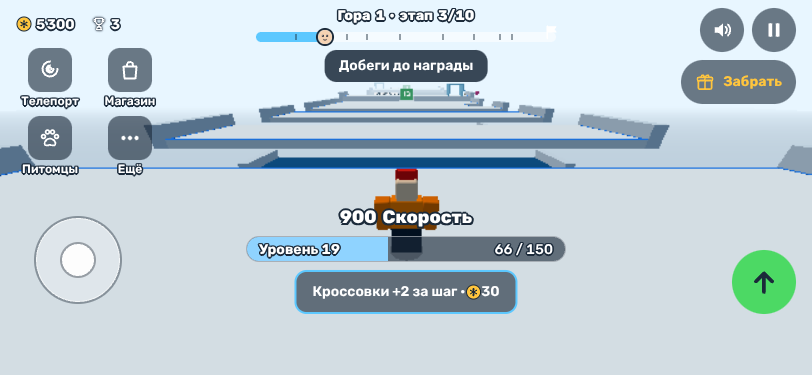
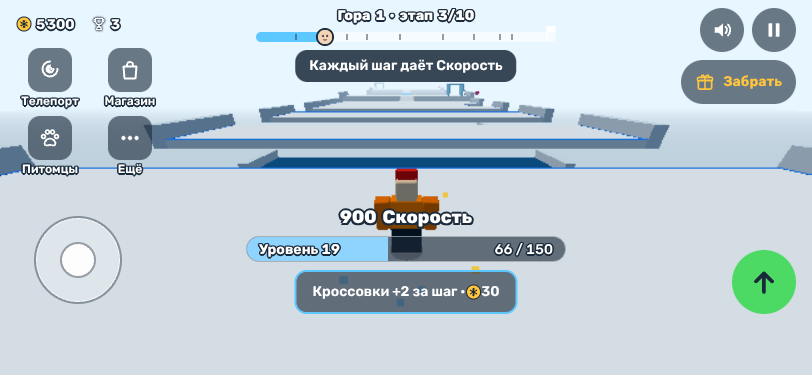
MU: e2e телефона 812×375 (рубеж, финиш, тост, лагерь, окна со свайпом, наборы шагов, поворот), свои рекорды без таблицы лидеров, тост без наплыва на подсказку
Claude-Session: https://claude.ai/code/session_01CrRtJcWGB7Wvn7cQwSvFUz

diff --git a/e2e/touch-mu-screens.spec.ts b/e2e/touch-mu-screens.spec.ts
@@ -1,0 +1,278 @@
+import { test, expect, testState } from './fixtures.ts';
+import { forbiddenSymbols, hudBoxes, MU_VIEW, VISIBLE_H } from './mu-checks.ts';
+import { STAGES, threshold } from './lv-stage-data.ts';
+import type { Page } from '@playwright/test';
+
+// MU-03…MU-09, MU-12, MU-13 (docs/07-mobile-ui.md, docs/mockups): the screens of the phone at 812×375 with touch.
+test.use({ viewport: MU_VIEW });
+
+const SLOT = '[data-role="hint"], [data-role="need"], [data-role="tutor"], [data-role="wave-banner"], [data-role="ads"], [data-role="toast"]';
+
+async function prepare(page: Page, extra = ''): Promise<void> {
+  await page.evaluate((x) => {
+    const t = window.__TEST__!;
+    t.setPlaySec(400);
+    t.setCoins(5300);
+    t.setTrophies(3);
+    t.holdWave(900);
+    if (x) eval(x);
+  }, extra);
+  await page.touchscreen.tap(400, 200);
+  await page.waitForTimeout(300);
+}
+
+/** Message carriers of the slot visible now. */
+async function slotShown(page: Page): Promise<string[]> {
+  return page.evaluate((sel) =>
+    Array.from(document.querySelectorAll(sel))
+      .filter((e) => {
+        const s = getComputedStyle(e);
+        const r = e.getBoundingClientRect();
+        return r.width > 0 && s.display !== 'none' && s.visibility !== 'hidden' && Number(s.opacity) > 0.05;
+      })
+      .map((e) => (e as HTMLElement).dataset['role'] ?? ''),
+  SLOT);
+}
+
+async function tap(page: Page, hud: string): Promise<void> {
+  const b = page.locator(`[data-hud="${hud}"]`).first();
+  await b.dispatchEvent('pointerdown', { pointerType: 'touch', button: 0 });
+  // The click a phone sends after the tap (the HUD drops it, ui/hud.ts dropTapClick).
+  await b.dispatchEvent('click', { detail: 1 });
+}
+
+/** One finger swipes up over (x, y) by `dy` px (CDP touch events, MU-13). */
+async function swipe(page: Page, x: number, y: number, dy: number): Promise<void> {
+  const cdp = await page.context().newCDPSession(page);
+  await cdp.send('Input.dispatchTouchEvent', { type: 'touchStart', touchPoints: [{ x, y }] });
+  for (let i = 1; i <= 8; i++) await cdp.send('Input.dispatchTouchEvent', { type: 'touchMove', touchPoints: [{ x, y: y - (dy * i) / 8 }] });
+  await cdp.send('Input.dispatchTouchEvent', { type: 'touchEnd', touchPoints: [] });
+  await cdp.detach();
+}
+
+/** The open window: its panel box, the cross, the HUD under it, the buttons under 44 px. */
+async function windowFacts(page: Page): Promise<{ id: string; w: number; h: number; bottom: number; cross: number; hudShown: boolean; small: string[] }> {
+  return page.evaluate(() => {
+    const dim = document.querySelector('[data-role="window"].open') as HTMLElement;
+    const p = dim.querySelector('.win-panel')!.getBoundingClientRect();
+    const cross = dim.querySelector('[data-hud="win-close"]') as HTMLElement;
+    const pause = document.querySelector('[data-hud="pause"]')!;
+    const small = Array.from(dim.querySelectorAll('button'))
+      .filter((b) => b.getBoundingClientRect().width > 0 && getComputedStyle(b).display !== 'none')
+      .filter((b) => b.getBoundingClientRect().height < 43.5 || b.getBoundingClientRect().width < 43.5)
+      .map((b) => b.className);
+    return {
+      id: dim.dataset['window'] ?? '',
+      w: p.width,
+      h: p.height,
+      bottom: p.bottom,
+      cross: cross.hidden ? 0 : cross.getBoundingClientRect().width,
+      hudShown: getComputedStyle(pause).visibility !== 'hidden',
+      small,
+    };
+  });
+}
+
+test.describe('MU phone screens', () => {
+  test('MU-03 gate: the dark sign in the world and one plaque «N more levels to the gate» in the slot, nothing else', async ({ page, openGame }) => {
+    await openGame('pace=stages');
+    const st = STAGES[0]!.stages[3]!;
+    const need = st.level;
+    await prepare(page, `window.__TEST__.setStat(${threshold(Math.max(1, need - 3))}); window.__TEST__.teleport(${st.z0 - 20});`);
+    await page.waitForTimeout(500);
+    await expect(page.locator('[data-role="need"]')).toHaveText(/Ещё 3 уровня до рубежа/);
+    await expect.poll(() => slotShown(page)).toEqual(['need']);
+    await expect(page.locator('.hud-goal')).toBeHidden();
+    // Signs farther than they read are not drawn.
+    const far = await page.evaluate(() => {
+      const t = window.__TEST__!;
+      const st = t.state();
+      return st.gatesOpen.map((_, i) => ({ i, box: t.signBox(i) })).filter((x) => Math.abs(x.box.center[2] - (st.hero?.z ?? 0)) > 80 && !x.box.hidden).length;
+    });
+    expect(far).toBe(0);
+    await page.screenshot({ path: 'docs/evidence/MU/l2-gate.png' });
+  });
+
+  test('MU-04 finish: the light plaque before the pad, one «+N» with the coin on it, the counter gets the coins', async ({ page, openGame }) => {
+    await openGame('pace=stages');
+    const st = STAGES[0]!.stages[2]!;
+    await prepare(page, `window.__TEST__.setStat(${threshold(st.level + 2)}); window.__TEST__.teleport(${st.finish[0] - 6}, ${st.pad.x}, ${st.y + 1});`);
+    await expect(page.locator('[data-role="pad-label"].shown')).toBeVisible();
+    await expect(page.locator('[data-role="pad-label"]')).toContainText(/Награда этапа/);
+    await expect(page.locator('[data-role="pad-label"] .hud-pad-sub')).toHaveText(/можно бежать мимо/);
+    await page.screenshot({ path: 'docs/evidence/MU/l3-stage-finish-before.png' });
+    const before = (await testState(page)).coins;
+    let toasts = 0;
+    await page.exposeFunction('__toastSeen', () => void toasts++);
+    await page.evaluate(() => {
+      const el = document.querySelector('[data-role="toast"]')!;
+      new MutationObserver(() => {
+        if (el.classList.contains('shown')) {
+          const w = window as unknown as { __toastSeen: () => void; __toastTexts?: string[] };
+          (w.__toastTexts ??= []).push(el.textContent ?? '');
+          w.__toastSeen();
+        }
+      }).observe(el, { attributes: true, attributeFilter: ['class'] });
+    });
+    await page.evaluate((p) => window.__TEST__!.teleport(p.z, p.x, p.y + 1), st.pad);
+    await page.waitForFunction(() => window.__TEST__!.state().padsTaken > 0, undefined, { timeout: 20_000 });
+    await page.waitForTimeout(300);
+    await expect(page.locator('[data-role="toast"] .hud-toast-main')).toContainText('+');
+    expect(await page.locator('[data-role="toast"] .hud-toast-main svg').count()).toBe(1);
+    await page.screenshot({ path: 'docs/evidence/MU/l3-stage-finish.png' });
+    await page.waitForTimeout(2500);
+    console.log('TOASTS', toasts, await page.evaluate(() => (window as unknown as { __toastTexts?: string[] }).__toastTexts));
+    expect(toasts).toBe(1);
+    expect((await testState(page)).coins).toBeGreaterThan(before);
+    await expect(page.locator('[data-role="coin-gain"]')).toBeHidden();
+  });
+
+  test('MU-05 toast: «LEVEL UP!» in the slot 1.2 s over «Level N», not on the hero, the hint hides and comes back, «+N» one at a time', async ({ page, openGame }) => {
+    await openGame('pace=stages');
+    await prepare(page, `window.__TEST__.setStat(${threshold(4)});`);
+    await page.waitForTimeout(400);
+    // What the slot held when the toast came up and when it went (the machine may be slow: the page records it).
+    await page.evaluate(() => {
+      const el = document.querySelector('[data-role="toast"]')!;
+      const hud = document.querySelector('[data-role="hud"]')!;
+      const w = window as unknown as { __toast: Array<Record<string, unknown>> };
+      w.__toast = [];
+      new MutationObserver(() => {
+        const r = el.getBoundingClientRect();
+        const t = window.__TEST__!;
+        const h = t.state().hero!;
+        w.__toast.push({
+          shown: el.classList.contains('shown'),
+          main: el.querySelector('.hud-toast-main')?.textContent,
+          sub: el.querySelector('.hud-toast-sub')?.textContent,
+          bottom: r.bottom,
+          slot: hud.getAttribute('data-slot'),
+          gains: document.querySelectorAll('.hud-gain.show').length,
+          gainVisible: Array.from(document.querySelectorAll('.hud-gain')).some((g) => getComputedStyle(g).visibility !== 'hidden' && g.classList.contains('show')),
+          heroY: t.project(h.x, h.y + 1.6, h.z).y,
+          at: performance.now(),
+        });
+      }).observe(el, { attributes: true, attributeFilter: ['class'] });
+    });
+    await page.evaluate((n) => window.__TEST__!.setStat(n), threshold(5) + 1);
+    await page.waitForFunction(() => (window as unknown as { __toast: Array<{ shown: boolean }> }).__toast.some((x) => !x.shown), undefined, { timeout: 20_000 });
+    const log = await page.evaluate(() => (window as unknown as { __toast: Array<{ shown: boolean; main: string; sub: string; bottom: number; slot: string; gainVisible: boolean; heroY: number; at: number }> }).__toast);
+    const up = log.find((x) => x.shown)!;
+    const down = log.find((x) => !x.shown)!;
+    expect(up.main).toBe('УРОВЕНЬ ВЫШЕ!');
+    expect(up.sub).toBe('Уровень 5');
+    expect(up.slot).toBe('toast');
+    expect(up.bottom).toBeLessThanOrEqual(86 + 1);
+    expect(up.heroY).toBeGreaterThan(up.bottom);
+    expect(up.gainVisible).toBe(false);
+    expect(down.at - up.at).toBeGreaterThan(900);
+    expect(down.at - up.at).toBeLessThan(2500);
+    // A run: «+N» by the hero is one number, never more than one node up; one message in the slot.
+    await page.evaluate(() => window.__TEST__!.stick(0, -1));
+    let most = 0;
+    for (let i = 0; i < 12; i++) {
+      most = Math.max(most, await page.locator('.hud-gain.show').count());
+      const shown = await slotShown(page);
+      expect(shown.length, shown.join(',')).toBeLessThanOrEqual(1);
+      await page.waitForTimeout(100);
+    }
+    await page.evaluate(() => window.__TEST__!.stick(0, 0));
+    expect(most).toBeLessThanOrEqual(1);
+  });
+
+  test('MU-06 camp: «Camp · mountain 1», no shoes button, no ads or group buttons on the scene, bot names 11 px', async ({ page, openGame }) => {
+    await openGame('pace=stages');
+    await prepare(page, `window.__TEST__.setStat(${threshold(30)});`);
+    await expect(page.locator('.hud-mountain-label')).toHaveText('Лагерь · гора 1');
+    await expect(page.locator('[data-hud="shoes"]')).toBeHidden();
+    await expect(page.locator('.base-gifts .community-gift:visible')).toHaveCount(0);
+    await expect(page.locator('[data-hud^="ad-stat_now"]:visible')).toHaveCount(0);
+    expect(await page.evaluate(() => getComputedStyle(document.querySelector('.bot-labels')!).fontSize)).toBe('11px');
+    await page.screenshot({ path: 'docs/evidence/MU/l5-camp.png' });
+  });
+
+  test('MU-07, MU-08, MU-13: windows of one style — width, ≤ 300 px, the HUD hidden, one at a time, cross 44, Esc and the veil close, swipes scroll', async ({ page, openGame }) => {
+    await openGame('pace=stages');
+    await prepare(page, `window.__TEST__.setStat(${threshold(30)});`);
+    const open: Array<[string, () => Promise<void>, number]> = [
+      ['gifts', () => tap(page, 'gift'), 640],
+      ['camp-teleport', () => tap(page, 'menu-teleport'), 560],
+      ['pause', () => tap(page, 'pause'), 640],
+      ['more', () => tap(page, 'menu-more'), 480],
+      ['shop', () => tap(page, 'menu-shop'), 640],
+      ['pets', () => tap(page, 'menu-pets'), 640],
+      ['footsteps', async () => { await tap(page, 'menu-more'); await page.locator('[data-hud="more-footsteps"]').click(); }, 640],
+      ['wardrobe', async () => { await tap(page, 'menu-more'); await page.locator('[data-hud="more-wardrobe"]').click(); }, 640],
+      ['rebirth', async () => { await tap(page, 'menu-more'); await page.locator('[data-hud="more-rebirth"]').click(); }, 640],
+      ['records', async () => { await tap(page, 'menu-more'); await page.locator('[data-hud="more-records"]').click(); }, 560],
+      ['quests', async () => { await tap(page, 'menu-more'); await page.locator('[data-hud="more-quests"]').click(); }, 560],
+      ['daily', async () => { await tap(page, 'menu-more'); await page.locator('[data-hud="more-daily"]').click(); }, 640],
+      ['promo', async () => { await tap(page, 'pause'); await page.locator('[data-hud="promo"]').click(); }, 480],
+    ];
+    for (const [id, how, width] of open) {
+      await how();
+      await expect(page.locator('[data-role="window"].open')).toHaveCount(1);
+      const f = await windowFacts(page);
+      expect(Math.abs(f.w - Math.min(width, MU_VIEW.width - 32)), `${id} width`).toBeLessThanOrEqual(2);
+      expect(f.h, `${id} height`).toBeLessThanOrEqual(300.5);
+      expect(f.bottom, `${id} bottom`).toBeLessThanOrEqual(VISIBLE_H + 0.5);
+      expect(f.cross, `${id} cross`).toBeGreaterThanOrEqual(44);
+      expect(f.hudShown, `${id}: the HUD under it`).toBe(false);
+      expect(f.small, `${id}: buttons under 44 px`).toEqual([]);
+      expect(await forbiddenSymbols(page), id).toEqual([]);
+      expect((await testState(page)).paused, `${id}: the game stands`).toBe(true);
+      await page.screenshot({ path: `docs/evidence/MU/w-${id}.png` });
+      // MU-13: a finger swipe over the middle scrolls it when it is taller than the window.
+      const body = page.locator('[data-role="window"].open .win-body');
+      const sizes = await body.evaluate((b) => ({ sh: b.scrollHeight, ch: b.clientHeight }));
+      if (sizes.sh > sizes.ch + 4) {
+        const r = (await body.boundingBox())!;
+        await swipe(page, r.x + r.width / 2, r.y + r.height - 10, Math.min(120, r.height - 20));
+        await page.waitForTimeout(400);
+        expect(await body.evaluate((b) => b.scrollTop), `${id}: a swipe scrolls`).toBeGreaterThan(0);
+      }
+      if (id === 'pause' || id === 'gifts') {
+        // A tap on the veil closes it.
+        await page.touchscreen.tap(8, 8);
+      } else await page.keyboard.press('Escape');
+      await expect(page.locator('[data-role="window"].open')).toHaveCount(0);
+    }
+  });
+
+  test('MU-12: a set of steps bought in the «Steps» tab of the shop is chosen in the «Footsteps» window; no second purchase', async ({ page, openGame }) => {
+    await openGame('pace=stages');
+    await prepare(page);
+    await tap(page, 'menu-shop');
+    await page.locator('[data-hud="shop-tab-steps"]').click();
+    const velvet = page.locator('[data-role="window"].open [data-item="velvet_snow"]');
+    await velvet.locator('[data-hud="shop-item"]').click();
+    await expect(velvet.locator('.foot-chosen')).toBeVisible();
+    await expect(velvet.locator('button[data-hud="shop-item"]')).toHaveCount(0);
+    expect((await testState(page)).coins).toBe(5300 - 150);
+    expect((await testState(page)).footsteps!.bought).toContain('velvet_snow');
+    await page.screenshot({ path: 'docs/evidence/MU/w-shop-steps.png' });
+    await page.keyboard.press('Escape');
+    await expect(page.locator('[data-role="window"].open')).toHaveCount(0);
+    await tap(page, 'menu-more');
+    await page.locator('[data-hud="more-footsteps"]').click();
+    await expect(page.locator('[data-footsteps="velvet_snow"]')).toHaveAttribute('data-state', 'on');
+    await expect(page.locator('[data-footsteps="magic_snow"] [data-hud="footsteps-shop"]')).toBeVisible();
+    await expect(page.locator('[data-hud="footsteps-buy"]')).toHaveCount(0);
+  });
+
+  test('MU-09, MU-13 (4): an upright touch screen gets «Turn your phone», the game stands; turned back — gone without a reload', async ({ page, openGame }) => {
+    await openGame('pace=stages');
+    await page.evaluate(() => ((window as unknown as { __mark: number }).__mark = 7));
+    await page.setViewportSize({ width: 375, height: 812 });
+    await expect(page.locator('[data-role="rotate"].shown')).toBeVisible();
+    await expect(page.locator('[data-role="rotate"]')).toContainText('Поверни телефон');
+    await expect(page.locator('[data-role="rotate"]')).toContainText('Так видно весь склон');
+    expect((await testState(page)).pauseReasons).toContain('orientation');
+    await page.screenshot({ path: 'docs/evidence/MU/p1-rotate.png' });
+    await page.setViewportSize(MU_VIEW);
+    await expect(page.locator('[data-role="rotate"].shown')).toHaveCount(0);
+    expect((await testState(page)).pauseReasons).not.toContain('orientation');
+    expect(await page.evaluate(() => (window as unknown as { __mark?: number }).__mark)).toBe(7);
+    expect((await hudBoxes(page)).length).toBeGreaterThan(5);
+  });
+});

diff --git a/src/ui/hud.ts b/src/ui/hud.ts
@@ -421,6 +421,8 @@ export function createHud(host: HTMLElement, opts: HudOptions): Hud {
   need.dataset['role'] = 'need';
   goal.append(goalText, goalBar, need);
   root.appendChild(goal);
+  // MU-03: the gate plaque is a message of the slot on the phone layout (the goal line is gone there).
+  if (opts.mu) root.appendChild(need);
 
   // Coins under the Speed plaque (docs/01-gdd.md 10.1): a coin with a snowflake and the number.
   const coins = el('div', 'hud-coins');
@@ -903,7 +905,9 @@ export function createHud(host: HTMLElement, opts: HudOptions): Hud {
       if (opts.mu) {
         // MU-02: fixed sizes of docs/07-mobile-ui.md (jump 64, round buttons 44, stick 84); the bottom band of a phone
         // taller than its visible 330 px stays free.
-        const panel = touchMode ? Math.max(0, Math.min(BOTTOM_PANEL_MAX, height - VISIBLE_H)) : 0;
+        // A touch screen (the finger, not the last input: a window opened by a tap must not jump).
+        const touchScreen = touchMode || window.matchMedia('(pointer: coarse)').matches;
+        const panel = touchScreen ? Math.max(0, Math.min(BOTTOM_PANEL_MAX, height - VISIBLE_H)) : 0;
         // On the interface layer: the windows keep out of that band too.
         host.style.setProperty('--mu-bottom', `${panel}px`);
         jumpButton.style.width = jumpButton.style.height = '';

diff --git a/src/app/records-view.ts b/src/app/records-view.ts
@@ -26,6 +26,8 @@ export interface RecordsView {
   /** The lines of the «My records» board: the title, best Speed, trophies over all time, summits a/b, the tier. */
   boardLines(save: SaveData, summits: number, mountains: number): string[];
   open(): void;
+  /** MU-07 (w6-more «Records»): no leaderboard — the window shows the player's own records (`lines`, the title first). */
+  openOwn(lines: readonly string[]): void;
 }
 
 export function createRecordsView(d: RecordsViewDeps): RecordsView {
@@ -58,6 +60,20 @@ export function createRecordsView(d: RecordsViewDeps): RecordsView {
         t('records.summits', { a: summits, b: mountains }),
         t('records.tier', { n: save.tier ?? 0 }),
       ];
+    },
+    openOwn(lines) {
+      d.windows.open('records', lines[0] ?? t('btn.records'), (body) => {
+        const list = document.createElement('div');
+        list.dataset['role'] = 'records-list';
+        for (const text of lines.slice(1)) {
+          const line = document.createElement('div');
+          line.className = 'records-row';
+          line.dataset['role'] = 'records-row';
+          line.textContent = text;
+          list.appendChild(line);
+        }
+        body.appendChild(list);
+      });
     },
     open() {
       if (!view.available) return;

diff --git a/src/styles.css b/src/styles.css
@@ -498,6 +498,8 @@ canvas.fallback {
 /* Toasts in the slot: gold 24 px with the ink outline, the line under it 14 px; top 40, never over the hero. */
 .hud.mu .hud-toast, .hud.mu.plated .hud-toast { top: calc(40px + env(safe-area-inset-top)); transform: translateX(-50%) scale(0.9); padding: 0; background: none; border-radius: 0; color: var(--mu-gold); font-size: 24px; line-height: 28px; font-weight: 800; text-shadow: var(--mu-o2); z-index: 4; }
 .hud.mu .hud-toast.shown { transform: translateX(-50%) scale(1); }
+/* One message at a time: the toast leaves at once, no fade over the next message. */
+.hud.mu .hud-toast { transition: transform 0.2s; }
 .hud.mu .hud-toast-sub { font-size: 14px; line-height: 18px; color: #fff; text-shadow: var(--mu-o15); }
 .hud.mu:not([data-slot='toast']) .hud-toast { opacity: 0; }
 .hud.mu.urgent .hud-toast.shown { opacity: 1; }
@@ -688,3 +690,4 @@ canvas.fallback {
 #ui.mu .dim.win { bottom: var(--mu-bottom, 0px); }
 #ui.mu .card-price svg { color: #fff; }
 #ui.mu .card-price .mark-cup svg, #ui.mu .win-head .mark-cup svg { color: #fff; }
+#ui.mu .records-row { display: flex; align-items: center; min-height: 44px; padding: 0 16px; margin-bottom: 8px; border-radius: 12px; background: var(--mu-card); font-size: 14px; font-weight: 600; }

diff --git a/src/main.ts b/src/main.ts
@@ -1307,7 +1307,10 @@ async function boot(): Promise<void> {
     else if (id === 'daily') dailyView?.openWindow();
     else if (id === 'quests') questsView?.openQuests();
     else if (id === 'timeRewards') questsView?.openTime();
-    else if (id === 'records') recordsView?.open();
+    else if (id === 'records') {
+      if (recordsView?.available) recordsView.open();
+      else recordsView?.openOwn(recordsView.boardLines(save, summitsDone(save), content.worlds.worlds.length));
+    }
     else if (id === 'footsteps') footstepsView?.openWindow();
     else if (id === 'more' && muLayout) {
       // MU-07 (w6-more): six tiles into the windows of the second wave.
